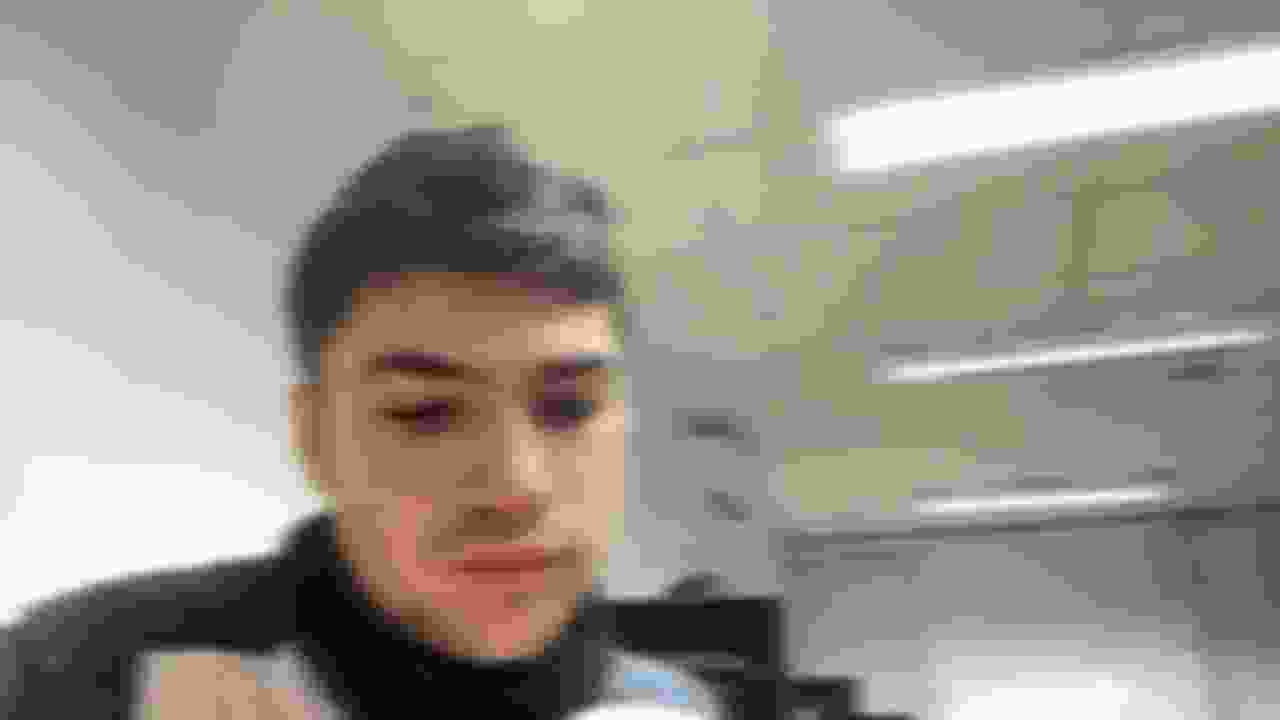
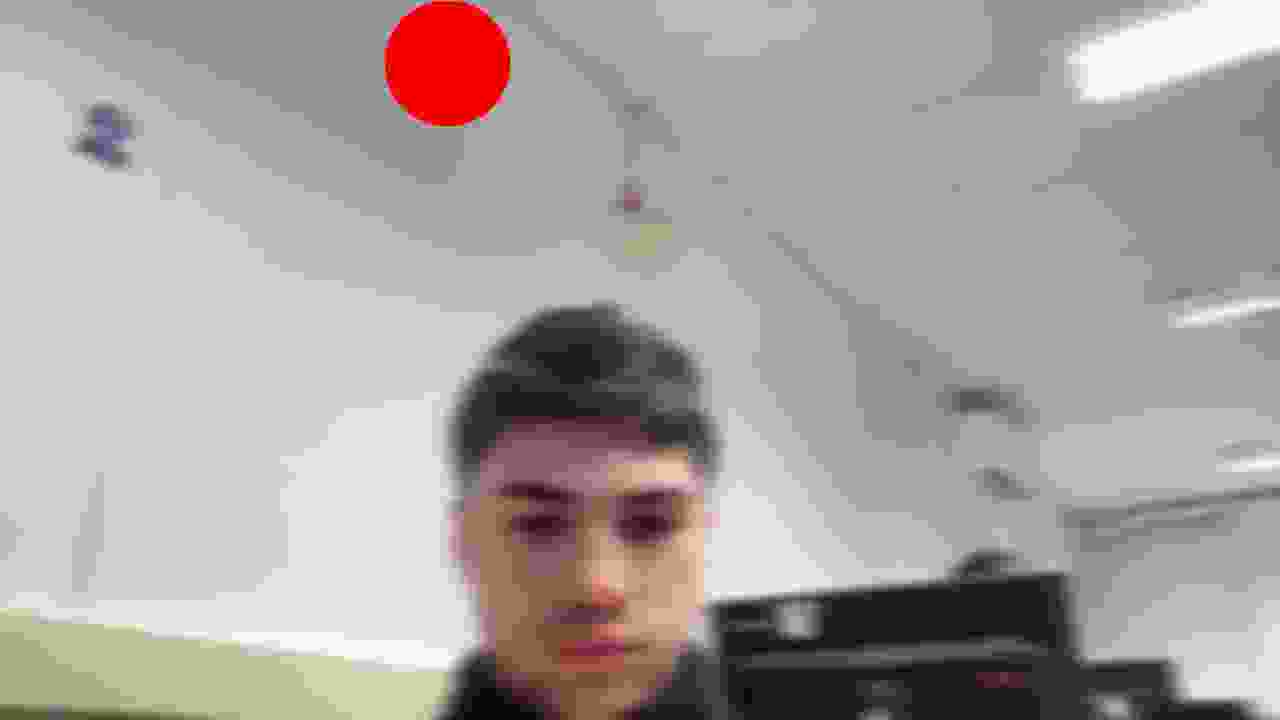
exercise 4

diff --git a/4Practical/2video.py b/4Practical/2video.py
@@ -26,6 +26,8 @@ def main():
         #cv2.absdiff(img_original,img_inverted,diff1)
 
         output_img = cv2.GaussianBlur(img, (111, 11), 10, 0)
+        cv2.circle(output_img,(447,63), 63, (0,0,255), -1)
+
        # output_img =
 
         cv2.imshow(window_name, output_img)
